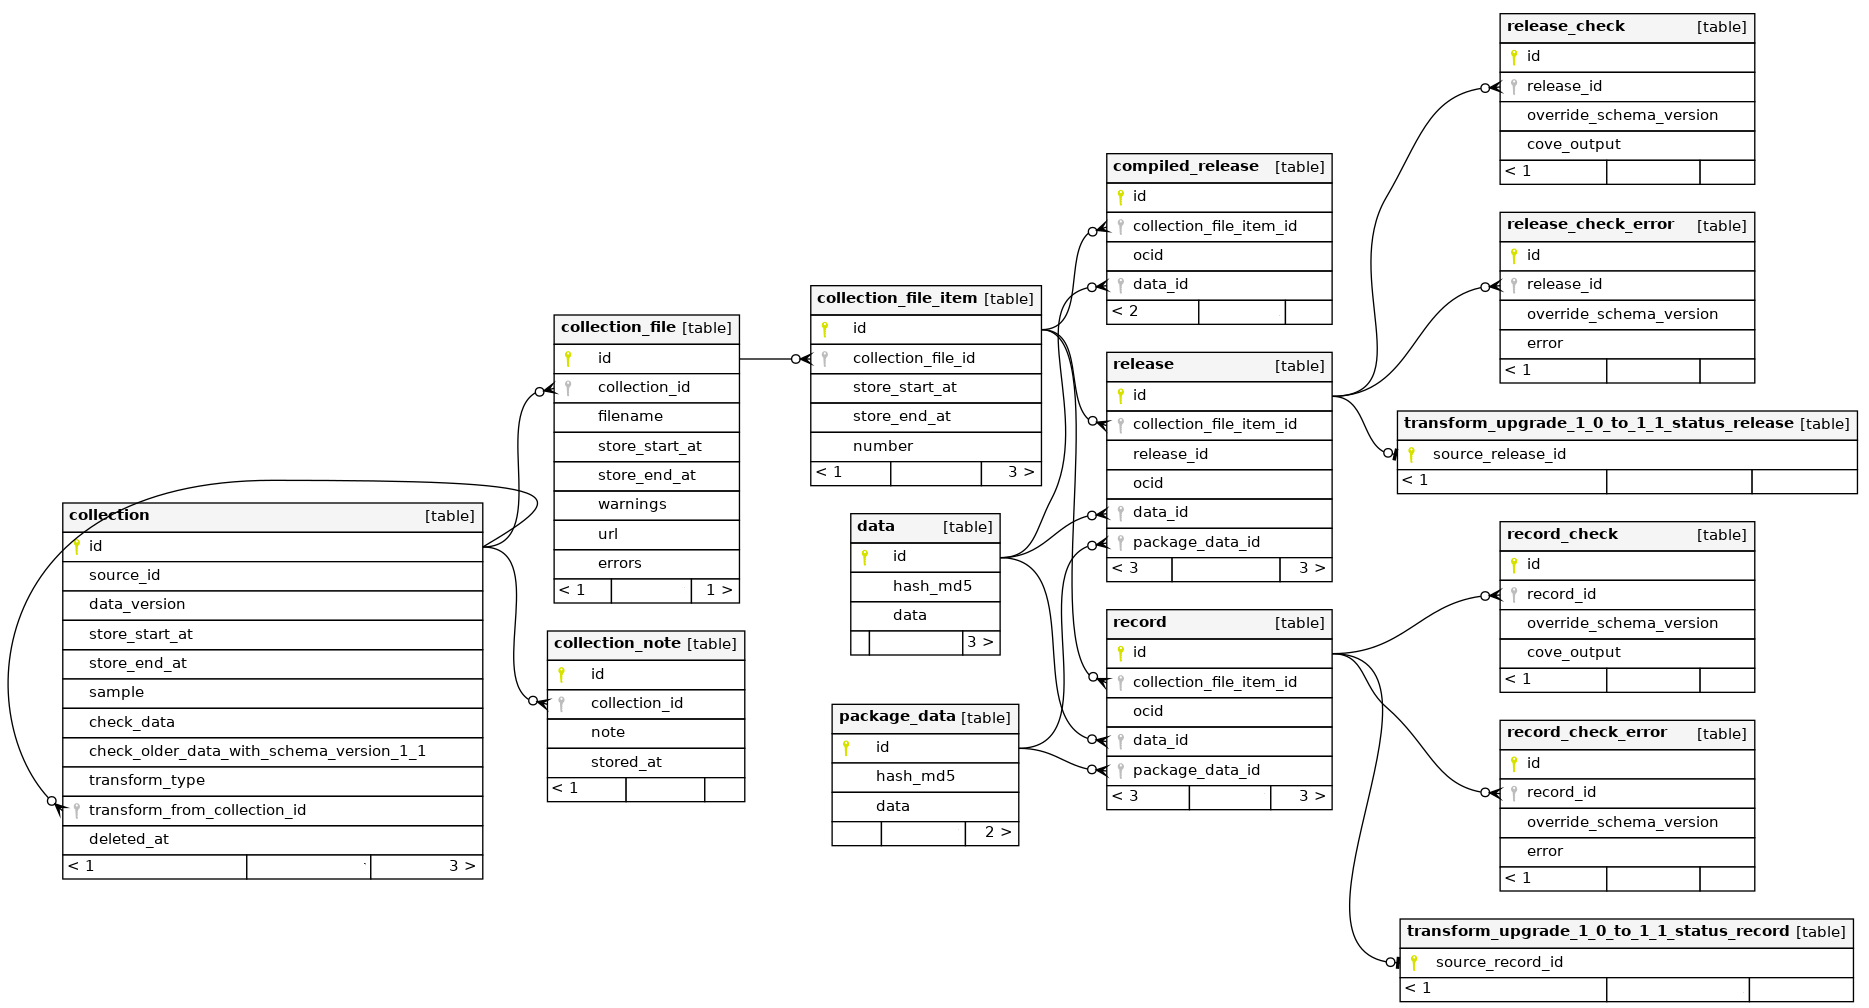
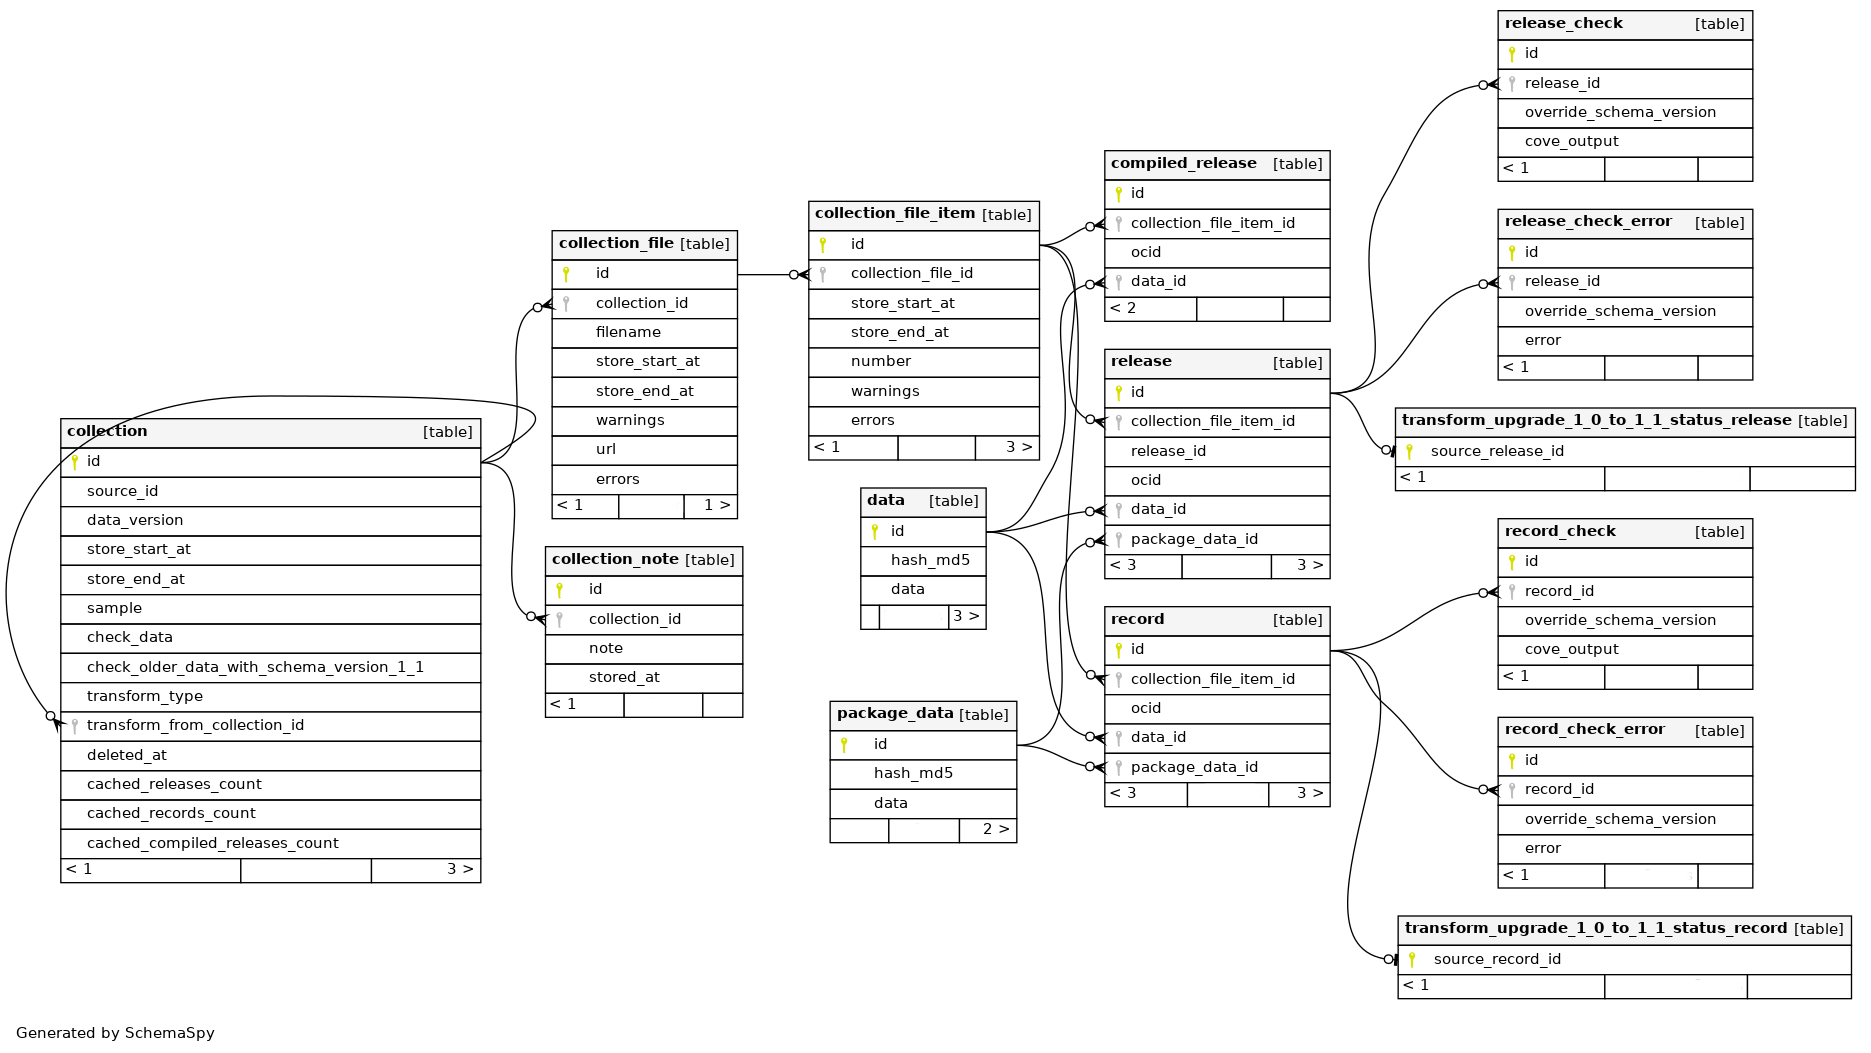
Add release, record and compiled release counts to collections table https://github.com/open-contracting/kingfisher-process/issues/183

Changed region(s): [[0.031, 0.0, 1.0, 1.0], [0.031, 0.9534, 0.0931, 0.9841]]

diff --git a/tests/test_collection_cached_columns.py b/tests/test_collection_cached_columns.py
@@ -1,0 +1,117 @@
+import datetime
+import os
+import sqlalchemy as sa
+from ocdskingfisherprocess.store import Store
+from tests.base import BaseDataBaseTest
+from ocdskingfisherprocess.transform.compile_releases import CompileReleasesTransform
+from ocdskingfisherprocess.transform import TRANSFORM_TYPE_COMPILE_RELEASES
+
+
+class TestCollectionCachedColums(BaseDataBaseTest):
+
+    def alter_config(self):
+        self.config.run_standard_pipeline = False
+
+    def test_releases(self):
+        # Make collection
+        collection_id = self.database.get_or_create_collection_id("test", datetime.datetime.now(), False)
+        collection = self.database.get_collection(collection_id)
+
+        # Load some data
+        store = Store(self.config, self.database)
+        store.set_collection(collection)
+        json_filename = os.path.join(os.path.dirname(
+            os.path.realpath(__file__)), 'data', 'sample_1_1_releases_multiple_with_same_ocid.json'
+        )
+        store.store_file_from_local("test.json", "http://example.com", "release_package", "utf-8", json_filename)
+
+        # test
+        self.database.update_collection_cached_columns(collection_id)
+
+        # check
+        with self.database.get_engine().begin() as connection:
+            s = sa.sql.select([self.database.collection_table])
+            result = connection.execute(s)
+            assert 1 == result.rowcount
+
+            data = result.fetchone()
+            assert 6 == data['cached_releases_count']
+
+    def test_records(self):
+        # Make collection
+        collection_id = self.database.get_or_create_collection_id("test", datetime.datetime.now(), False)
+        collection = self.database.get_collection(collection_id)
+
+        # Load some data
+        store = Store(self.config, self.database)
+        store.set_collection(collection)
+        json_filename = os.path.join(os.path.dirname(
+            os.path.realpath(__file__)), 'data', 'sample_1_0_record.json'
+        )
+        store.store_file_from_local("test.json", "http://example.com", "record_package", "utf-8", json_filename)
+
+        # test
+        self.database.update_collection_cached_columns(collection_id)
+
+        # check
+        with self.database.get_engine().begin() as connection:
+            s = sa.sql.select([self.database.collection_table])
+            result = connection.execute(s)
+            assert 1 == result.rowcount
+            data = result.fetchone()
+            assert 1 == data['cached_records_count']
+
+    def test_compiled_releases(self):
+        # Make source collection
+        source_collection_id = self.database.get_or_create_collection_id("test", datetime.datetime.now(), False)
+        source_collection = self.database.get_collection(source_collection_id)
+
+        # Load some data
+        store = Store(self.config, self.database)
+        store.set_collection(source_collection)
+        json_filename = os.path.join(os.path.dirname(
+            os.path.realpath(__file__)), 'data', 'sample_1_1_releases_multiple_with_same_ocid.json'
+        )
+        store.store_file_from_local("test.json", "http://example.com", "release_package", "utf-8", json_filename)
+
+        # Make destination collection
+        destination_collection_id = self.database.get_or_create_collection_id(
+            source_collection.source_id,
+            source_collection.data_version,
+            source_collection.sample,
+            transform_from_collection_id=source_collection_id,
+            transform_type=TRANSFORM_TYPE_COMPILE_RELEASES)
+        destination_collection = self.database.get_collection(destination_collection_id)
+
+        # transform! Nothing should happen because source is not finished
+        transform = CompileReleasesTransform(self.config, self.database, destination_collection)
+        transform.process()
+
+        # check
+        with self.database.get_engine().begin() as connection:
+            s = sa.sql.select([self.database.compiled_release_table])
+            result = connection.execute(s)
+            assert 0 == result.rowcount
+
+        # Mark source collection as finished
+        self.database.mark_collection_store_done(source_collection_id)
+
+        # transform! This should do the work.
+        transform = CompileReleasesTransform(self.config, self.database, destination_collection)
+        transform.process()
+
+        # update_collection_cached_columns
+        self.database.update_collection_cached_columns(source_collection_id)
+        self.database.update_collection_cached_columns(destination_collection_id)
+
+        # check
+        with self.database.get_engine().begin() as connection:
+            s = sa.sql.select([self.database.collection_table]).order_by(self.database.collection_table.columns.id)
+            result = connection.execute(s)
+            assert 2 == result.rowcount
+            data = result.fetchone()
+            assert 6 == data['cached_releases_count']
+            assert 0 == data['cached_compiled_releases_count']
+            data = result.fetchone()
+            assert 0 == data['cached_releases_count']
+            assert 1 == data['cached_compiled_releases_count']

diff --git a/ocdskingfisherprocess/database.py b/ocdskingfisherprocess/database.py
@@ -43,6 +43,9 @@ class DataBase:
                                                    sa.ForeignKey("collection.id"), nullable=True),
                                          sa.Column('transform_type', sa.Text, nullable=True),
                                          sa.Column('deleted_at', sa.DateTime(timezone=False), nullable=True),
+                                         sa.Column('cached_releases_count', sa.Integer, nullable=True),
+                                         sa.Column('cached_records_count', sa.Integer, nullable=True),
+                                         sa.Column('cached_compiled_releases_count', sa.Integer, nullable=True),
                                          sa.UniqueConstraint('source_id', 'data_version', 'sample',
                                                              'transform_from_collection_id', 'transform_type',
                                                              name='unique_collection_identifiers'),
@@ -506,6 +509,9 @@ class DataBase:
             )
             # TODO Mark store_end_at on all files not yet marked
 
+        KINGFISHER_SIGNALS.signal('collection-store-finished').send('anonymous', collection_id=collection_id)
+        return collection_id
+
     def store_collection_file_errors(self, collection_id, file_name, url, errors):
         with self.get_engine().begin() as connection:
             s = sa.sql.select([self.collection_file_table]) \
@@ -790,6 +796,44 @@ class DataBase:
                 self.collection_table.update()
                     .where(self.collection_table.c.id == collection_id)
                     .values(check_older_data_with_schema_version_1_1=value)
+            )
+
+    def update_collection_cached_columns(self, collection_id):
+        with self.get_engine().begin() as connection:
+            s = sa.sql.expression.text(
+                "SELECT count(*) as release_count FROM release_with_collection WHERE collection_id = :collection_id")
+            result = connection.execute(s, {"collection_id": collection_id})
+            data = result.fetchone()
+
+            connection.execute(
+                self.collection_table.update()
+                    .where(self.collection_table.c.id == collection_id)
+                    .values(cached_releases_count=data['release_count'])
+            )
+
+        with self.get_engine().begin() as connection:
+            s = sa.sql.expression.text(
+                "SELECT count(*) as record_count FROM record_with_collection WHERE collection_id = :collection_id")
+            result = connection.execute(s, {"collection_id": collection_id})
+            data = result.fetchone()
+
+            connection.execute(
+                self.collection_table.update()
+                    .where(self.collection_table.c.id == collection_id)
+                    .values(cached_records_count=data['record_count'])
+            )
+
+        with self.get_engine().begin() as connection:
+            s = sa.sql.expression.text(
+                "SELECT count(*) as compiled_release_count FROM compiled_release_with_collection " +
+                "WHERE collection_id = :collection_id")
+            result = connection.execute(s, {"collection_id": collection_id})
+            data = result.fetchone()
+
+            connection.execute(
+                self.collection_table.update()
+                    .where(self.collection_table.c.id == collection_id)
+                    .values(cached_compiled_releases_count=data['compiled_release_count'])
             )
 
 

diff --git a/ocdskingfisherprocess/cli/commands/process_redis_queue_collection_store_finished.py b/ocdskingfisherprocess/cli/commands/process_redis_queue_collection_store_finished.py
@@ -1,0 +1,59 @@
+import datetime
+from threading import Timer
+import os
+import logging
+import json
+
+import redis
+
+import ocdskingfisherprocess.cli.commands.base
+
+
+class ProcessRedisQueueCollectionStoreFinishedCLICommand(ocdskingfisherprocess.cli.commands.base.CLICommand):
+    command = 'process-redis-queue-collection-store-finished'
+
+    def configure_subparser(self, subparser):
+        subparser.add_argument("--runforseconds",
+                               help="Run for this many seconds only.")
+
+    def run_command(self, args):
+        if not self.config.is_redis_available():
+            print("No Redis is configured!")
+            return
+
+        run_until_timestamp = None
+        run_for_seconds = int(args.runforseconds) if args.runforseconds else 0
+        if run_for_seconds > 0:
+            run_until_timestamp = datetime.datetime.utcnow().timestamp() + run_for_seconds
+
+            # This is a safeguard - the process should stop itself but this will kill it if it does not.
+            def exitfunc():
+                os._exit(0)
+
+            Timer(run_for_seconds + 60, exitfunc).start()
+
+        redis_conn = redis.Redis(
+            host=self.config.redis_host,
+            port=self.config.redis_port,
+            db=self.config.redis_database
+        )
+        logger = logging.getLogger('ocdskingfisher.redis-queue-collection-store-finished')
+
+        run = True
+        while run:
+            data = redis_conn.blpop("kingfisher_work_collection_store_finished", timeout=10)
+            if data:
+                message = json.loads(data[1].decode('ascii'))
+                if not args.quiet:
+                    print("Got Collection: " + str(message.get('collection_id')))
+                logger.info("Got Collection: " + str(message.get('collection_id')))
+                self.database.update_collection_cached_columns(message.get('collection_id'))
+                if not args.quiet:
+                    print("Processed!")
+            # Early return?
+            if run_until_timestamp and run_until_timestamp < datetime.datetime.utcnow().timestamp():
+                run = False
+
+        # If the code above took less than 60 seconds the process will stay open, waiting for the Timer to execute.
+        # So just kill it to make sure.
+        os._exit(0)

diff --git a/ocdskingfisherprocess/signals/signals.py b/ocdskingfisherprocess/signals/signals.py
@@ -17,6 +17,7 @@ def setup_signals(config, database):
         KINGFISHER_SIGNALS.signal('new_collection_created').connect(run_standard_pipeline_on_new_collection_created)
     if config.is_redis_available():
         KINGFISHER_SIGNALS.signal('collection-data-store-finished').connect(collection_data_store_finished_to_redis)
+        KINGFISHER_SIGNALS.signal('collection-store-finished').connect(collection_store_finished_to_redis)
 
 
 def run_standard_pipeline_on_new_collection_created(sender, collection_id=None, **kwargs):
@@ -54,3 +55,13 @@ def collection_data_store_finished_to_redis(sender,
         'collection_file_item_id': collection_file_item_id,
     })
     redis_conn.rpush('kingfisher_work', message)
+
+
+def collection_store_finished_to_redis(sender,
+                                       collection_id=None,
+                                       **kwargs):
+    redis_conn = redis.Redis(host=our_config.redis_host, port=our_config.redis_port, db=our_config.redis_database)
+    message = json.dumps({
+        'collection_id': collection_id,
+    })
+    redis_conn.rpush('kingfisher_work_collection_store_finished', message)

diff --git a/ocdskingfisherprocess/maindatabase/migrations/versions/53699ddc9872_collection_cached_counts.py b/ocdskingfisherprocess/maindatabase/migrations/versions/53699ddc9872_collection_cached_counts.py
@@ -1,0 +1,34 @@
+"""collection_cached_counts
+
+Revision ID: 53699ddc9872
+Revises: b6563e8f5cb7
+Create Date: 2019-10-28 16:22:33.458857
+
+"""
+from alembic import op
+import sqlalchemy as sa
+
+
+# revision identifiers, used by Alembic.
+revision = '53699ddc9872'
+down_revision = 'b6563e8f5cb7'
+branch_labels = None
+depends_on = None
+
+
+def upgrade():
+    op.add_column('collection',
+                  sa.Column('cached_releases_count', sa.Integer, nullable=True)
+                  )
+    op.add_column('collection',
+                  sa.Column('cached_records_count', sa.Integer, nullable=True),
+                  )
+    op.add_column('collection',
+                  sa.Column('cached_compiled_releases_count', sa.Integer, nullable=True),
+                  )
+
+
+def downgrade():
+    op.drop_column('collection', 'cached_releases_count')
+    op.drop_column('collection', 'cached_records_count')
+    op.drop_column('collection', 'cached_compiled_releases_count')

diff --git a/ocdskingfisherprocess/cli/commands/update_collection_caches.py b/ocdskingfisherprocess/cli/commands/update_collection_caches.py
@@ -1,0 +1,18 @@
+import ocdskingfisherprocess.database
+import ocdskingfisherprocess.cli.commands.base
+import logging
+
+
+class UpdateCollectionCachesCLICommand(ocdskingfisherprocess.cli.commands.base.CLICommand):
+    command = 'update-collection-caches'
+
+    def run_command(self, args):
+        logger = logging.getLogger('ocdskingfisher.cli.update-collection-caches')
+        logger.info("Starting command")
+
+        for collection in self.database.get_all_collections():
+            if collection.store_end_at:
+                if not args.quiet:
+                    print("Collection " + str(collection.database_id))
+                logger.info("Starting to update caches for collection " + str(collection.database_id))
+                self.database.update_collection_cached_columns(collection.database_id)

diff --git a/ocdskingfisherprocess/cli/commands/upgrade_database.py b/ocdskingfisherprocess/cli/commands/upgrade_database.py
@@ -24,6 +24,7 @@ class UpgradeDataBaseCLICommand(ocdskingfisherprocess.cli.commands.base.CLIComma
                     db=self.config.redis_database
                 )
                 redis_conn.delete('kingfisher_work')
+                redis_conn.delete('kingfisher_work_collection_store_finished')
 
         if not args.quiet:
             print("Upgrading/Creating Database")

diff --git a/docs/cli/process-redis-queue-collection-store-finished.rst b/docs/cli/process-redis-queue-collection-store-finished.rst
@@ -1,0 +1,29 @@
+process-redis-queue-collection-store-finished
+=============================================
+
+
+This commands processes any data in the Redis queue for a collection that has just been marked as finishing it's store stage.
+
+It will keep running until you stop it manually.
+
+It is safe to run more than one of these commands at once.
+
+.. code-block:: shell-session
+
+    python ocdskingfisher-process-cli process-redis-queue-collection-store-finished
+
+Running from cron
+-----------------
+
+You can also pass a maximum number of seconds that the process should run for.
+
+.. code-block:: shell-session
+
+    python ocdskingfisher-process-cli process-redis-queue-collection-store-finished--runforseconds 60
+
+Soon after that number of seconds has passed, the command will exit.
+(The command will finish the work it's currently doing before stopping, so it may run slightly longer than specified. Allow a minute extra to be safe.)
+
+.. admonition:: OCDS Helpdesk deployment
+
+   Don't use this. A cron job runs this once per hour.

diff --git a/docs/database-structure.rst b/docs/database-structure.rst
@@ -37,6 +37,12 @@ This has columns to track it's current state:
 *  `store_end_at`: the data and time when the store stage end. For transformed collections, this means the time the transformer finished.
 *  `deleted_at`: the date and time when the collection was deleted. If this is set, this row will remain in the database but data about this collection may be cleared out of all other tables at any point and should NOT be relied on.
 
+It also has some columns with cached values, for ease of use:
+
+* `cached_releases_count`: Number of releases. Currently only calculated when store has finished.
+* `cached_records_count`: Number of records. Currently only calculated when store has finished.
+* `cached_compiled_releases_count`: Number of compiled releases. Currently only calculated when store has finished.
+
 collection_note table
 ---------------------
 

diff --git a/docs/cli/update-collection-caches.rst b/docs/cli/update-collection-caches.rst
@@ -1,0 +1,13 @@
+update-collection-caches
+========================
+
+This command updates cached values for all collections.
+
+It can be run multiple times on a collection, as updating a cache will not cause any problems.
+
+You should only run one of these at once, as if two are run at once they may try and do the same work.
+
+.. code-block:: shell-session
+
+    python ocdskingfisher-process-cli update-collection-caches
+

diff --git a/docs/cli/index.rst b/docs/cli/index.rst
@@ -37,4 +37,11 @@ Processing actions that have been requested:
    transform-collection.rst
    transform-collections.rst
    delete-collections.rst
+   update-collection-caches.rst
+
+Processing work from the Redis queues - there are several workers to process different types of work:
+
+.. toctree::
+
    process-redis-queue.rst
+   process-redis-queue-collection-store-finished.rst
